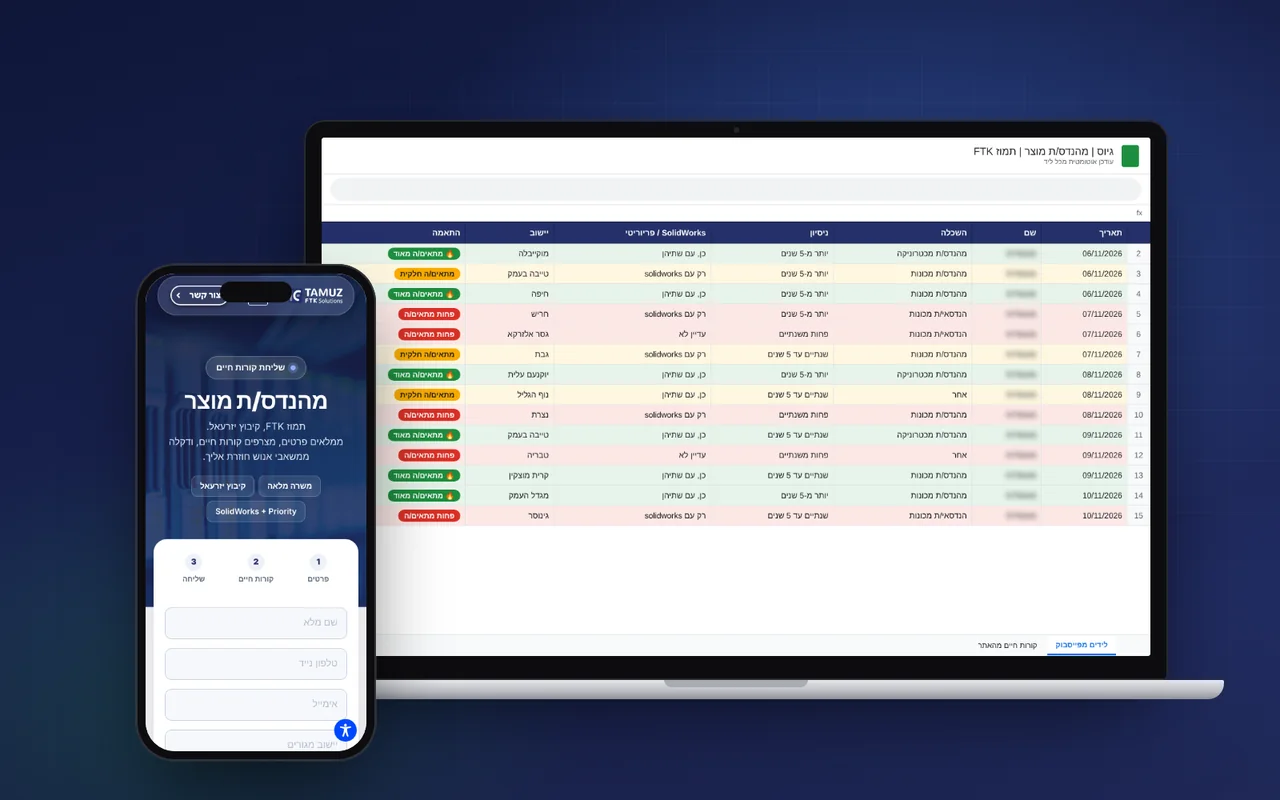
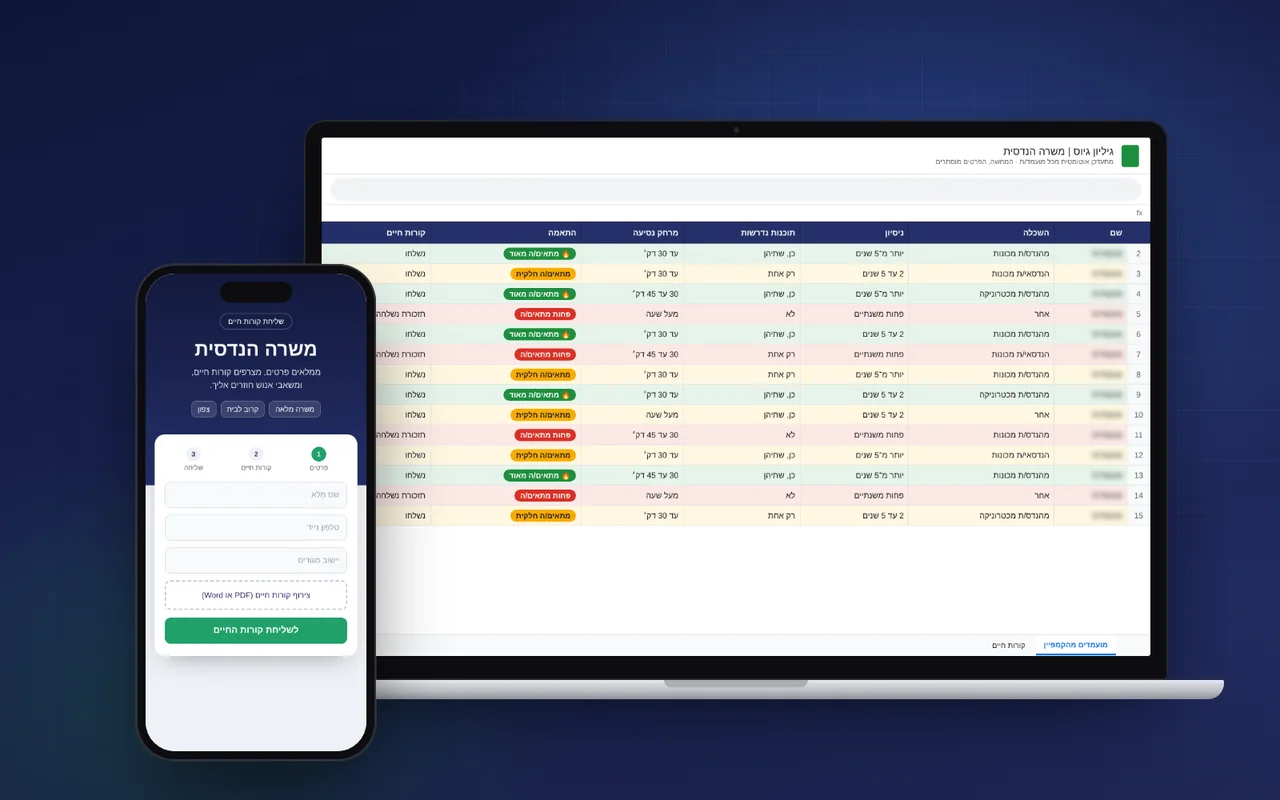
Portfolio: anonymize recruitment case card (no client name, illustrative screens)
Claude-Session: https://claude.ai/code/session_013ezTTDnqdGUwW3CTH6JQ4E

diff --git a/index.html b/index.html
@@ -1737,7 +1737,7 @@
     var LG=function(slug){return 'assets/logos/'+slug+'.webp';};
     var projects=[
       {mock:'assets/portfolio/mock/tamuz.webp',n:'Tamuz FTK Solutions',logo:'tamuz',cat:'תעשייה · B2B',serv:'אתר · מיתוג · יום צילום להנהלה · וידאו ורחפן · לינקדאין',res:'שם אחד, ספר מותג ואתר עם עמוד לכל מחלקה',cats:['אתרים','מיתוג'],url:'case-tamuz',img:'assets/portfolio/b2b/tamuz-1280.webp',strip:'tamuz'},
-      {mock:'assets/portfolio/mock/tamuzhr.webp',n:'גיוס מהנדס/ת מוצר לתמוז',logo:'tamuz',cat:'גיוס עובדים · עמק יזרעאל',serv:'קמפיין לידים ממוקד אזור · טופס סינון · דף קורות חיים · גיליון רמזור · תזכורות אוטומטיות',res:'בשבוע הראשון: 94 מועמדים מסוננים ו־46 קורות חיים דרך הדף, ועוד קורות חיים שהגיעו ישר לדקלה',cats:['קמפיינים','אוטומציות']},
+      {mock:'assets/portfolio/mock/tamuzhr.webp',n:'גיוס מהנדסים לחברת תעשייה',logo:'',cat:'גיוס עובדים · תעשייה',serv:'קמפיין לידים ממוקד אזור · טופס סינון · דף קורות חיים · גיליון רמזור · תזכורות אוטומטיות',res:'בשבוע הראשון: 94 מועמדים מסוננים ו־46 קורות חיים, למשרה שעמדה פתוחה תקופה ארוכה',cats:['קמפיינים','אוטומציות']},
       {mock:'assets/portfolio/mock/abp.webp',n:'ABP Consultancy',logo:'abp',cat:'B2B · AI ואוטומציה',serv:'פודקאסט · וידאו · LinkedIn Ads · YouTube · Spotify',res:'16,171 חשיפות בלינקדאין · CTR 1.01%',cats:['קמפיינים','מיתוג'],url:'case-abp',img:'assets/case-abp/eli-hero.webp'},
       {mock:'assets/portfolio/mock/erplogic.webp',n:'ERP Logic',logo:'erplogic',cat:'Enterprise · SAP · AI',serv:'ניהול שיווק חיצוני · אתר · SEO · LinkedIn · וובינרים',res:'177 נרשמים לוובינר (יעד: 30) · 124K חשיפות בגוגל',cats:['אתרים','SEO','קמפיינים'],url:'case-erp-logic',img:'assets/portfolio/b2b/erplogic-1280.webp',strip:'erplogic'},
       {mock:'assets/portfolio/mock/toast.webp',n:'טוסט גן העיר',logo:'toast',cat:'מסעדה · אשדוד',serv:'מחקר שוק · מיתוג · תוכן · קמפיינים בפייסבוק ובאינסטגרם',res:'כמה חודשים אחרי הפתיחה: מחזור של פי 7 עד 10 מיום רגיל',cats:['מיתוג','קמפיינים'],url:'mitug-toast-gan-hair'},
